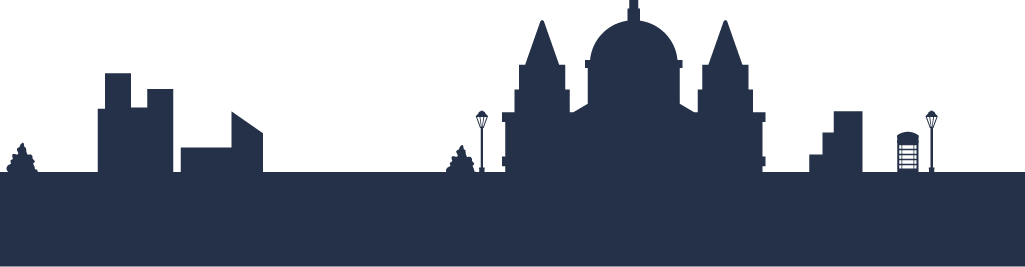
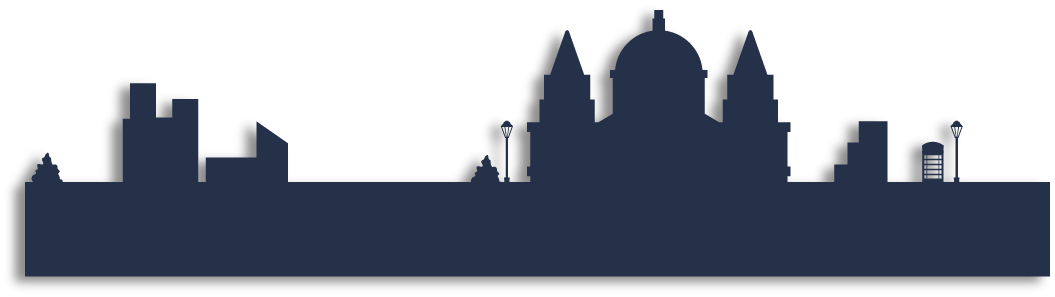
Add motion

Changed region(s): [[0.0, 0.0, 1.0, 1.0], [0.6556, 0.0899, 0.7493, 0.4195]]

diff --git a/imagen.c b/imagen.c
@@ -34,6 +34,25 @@ cairo_surface_t *bridge_base_left;
 cairo_surface_t *wave_3;
 cairo_surface_t *wave_4;
 
+gint x_cloud1;
+gint x_cloud2;
+gint x_cloud3;
+gint x_cloud4;
+gint x_cloud5;
+
+gint x_car_right;
+gint x_car_left;
+gint x_airplane;
+gint x_boat;
+gint x_bus_right;
+gint x_bus_left;
+
+gint x_wave_1;
+gint x_wave_2;
+gint x_wave_3;
+gint x_wave_4;
+
+
 static void draw_function (GtkDrawingArea *area, cairo_t *cr, int width, int height, gpointer user_data) {
    
    // ========== Background 1024 px - 575 px ==========
@@ -43,75 +62,135 @@ static void draw_function (GtkDrawingArea *area, cairo_t *cr, int width, int hei
 
    // ========== Sky (x, y) ==========
    sun = cairo_image_surface_create_from_png("Sun.png");
-   cairo_set_source_surface(cr,sun,900,10);
+   cairo_set_source_surface(cr,sun,900,5);
    cairo_paint(cr);  
 
+   if(x_cloud1<1050){
+      x_cloud1 += 1;
+   } else {
+      x_cloud1 = -200;
+   }
    cloud1 = cairo_image_surface_create_from_png("Cloud-1.png");
-   cairo_set_source_surface(cr,cloud1,10,60);
+   cairo_set_source_surface(cr,cloud1,0+x_cloud1,90);
    cairo_paint(cr);    
 
+   if(x_cloud2<1050){
+      x_cloud2 += 1;
+   } else {
+      x_cloud2 = -200;
+   }   
    cloud2 = cairo_image_surface_create_from_png("Cloud-2.png");
-   cairo_set_source_surface(cr,cloud2,800,10);
-   cairo_paint(cr);    
+   cairo_set_source_surface(cr,cloud2,0+x_cloud2,10);
+   cairo_paint(cr);      
 
-   airplane = cairo_image_surface_create_from_png("Airplane.png");
-   cairo_set_source_surface(cr,airplane,350,50);
-   cairo_paint(cr);     
-
+   if(x_cloud3<1050){
+      x_cloud3 += 1;
+   } else {
+      x_cloud3 = -200;
+   }   
    cloud3 = cairo_image_surface_create_from_png("Cloud-3.png");
-   cairo_set_source_surface(cr,cloud3,280,70);
-   cairo_paint(cr);    
+   cairo_set_source_surface(cr,cloud3,0+x_cloud3,20);
+   cairo_paint(cr); 
 
+   if(x_airplane > -100){
+      x_airplane -= 2;
+   } else {
+      x_airplane = 1030;
+   }
+   airplane = cairo_image_surface_create_from_png("Airplane.png");
+   cairo_set_source_surface(cr,airplane,0+x_airplane,55);
+   cairo_paint(cr);      
+
+   if(x_cloud4<1050){
+      x_cloud4 += 1;
+   } else {
+      x_cloud4 = -200;
+   }   
    cloud4 = cairo_image_surface_create_from_png("Cloud-4.png");
-   cairo_set_source_surface(cr,cloud4,450,40);
+   cairo_set_source_surface(cr,cloud4,0+x_cloud4,75);
    cairo_paint(cr);       
 
+   if(x_cloud5<1050){
+      x_cloud5 += 1;
+   } else {
+      x_cloud5 = -200;
+   }
    cloud5 = cairo_image_surface_create_from_png("Cloud-5.png");
-   cairo_set_source_surface(cr,cloud5,670,80);
+   cairo_set_source_surface(cr,cloud5,0+x_cloud5,65);
    cairo_paint(cr);     
 
    // ========== buildings background ==========
    wheel = cairo_image_surface_create_from_png("Wheel.png");
-   cairo_set_source_surface(cr,wheel,40,150);
+   cairo_set_source_surface(cr,wheel,41,123);
    cairo_paint(cr);     
 
    wheel_base = cairo_image_surface_create_from_png("Wheel-base.png");
-   cairo_set_source_surface(cr,wheel_base,-25,250);
+   cairo_set_source_surface(cr,wheel_base,-25,220);
    cairo_paint(cr);    
 
    capa2 = cairo_image_surface_create_from_png("Capa-2.png");
-   cairo_set_source_surface(cr,capa2,-25,100);
+   cairo_set_source_surface(cr,capa2,-25,60);
    cairo_paint(cr);  
 
    capa3 = cairo_image_surface_create_from_png("Capa-3.png");
-   cairo_set_source_surface(cr,capa3,0,290);
+   cairo_set_source_surface(cr,capa3,-25,245);
    cairo_paint(cr);    
 
-   // -------- Wave Back --------
+   if(x_wave_1 < 300){
+      x_wave_1 += 1;
+   } else {
+      x_wave_1 = -500;
+   }  
    wave_1 = cairo_image_surface_create_from_png("Wave-1.png");
-   cairo_set_source_surface(cr,wave_1,-25,515);
+   cairo_set_source_surface(cr,wave_1,-500+x_wave_1,500);
    cairo_paint(cr);   
 
+   if(x_wave_2 < 300){
+      x_wave_2 += 1;
+   } else {
+      x_wave_2 = -500;
+   }  
    wave_2 = cairo_image_surface_create_from_png("Wave-2.png");
-   cairo_set_source_surface(cr,wave_2,-25,530);
+   cairo_set_source_surface(cr,wave_2,-500+x_wave_2,520);
    cairo_paint(cr); 
 
    // -------- Cars Section --------
+   if(x_car_left > -100){
+      x_car_left -= 10;
+   } else {
+      x_car_left = 1100;
+   }  
    car_left = cairo_image_surface_create_from_png("Car-left.png");
-   cairo_set_source_surface(cr,car_left,150,435);
+   cairo_set_source_surface(cr,car_left,0+x_car_left,435);
    cairo_paint(cr); 
 
-   car_right = cairo_image_surface_create_from_png("Car-right.png");
-   cairo_set_source_surface(cr,car_right,50,435);
-   cairo_paint(cr);    
-
-   bus_right = cairo_image_surface_create_from_png("Bus-right.png");
-   cairo_set_source_surface(cr,bus_right,0,395);
-   cairo_paint(cr);    
-
+   if(x_bus_left > -100){
+      x_bus_left -= 10;
+   } else {
+      x_bus_left = 1300;
+   }  
    bus_left = cairo_image_surface_create_from_png("Bus-left.png");
-   cairo_set_source_surface(cr,bus_left,900,395);
+   cairo_set_source_surface(cr,bus_left,0+x_bus_left,395);
    cairo_paint(cr);    
+
+   if(x_car_right < 1100){
+      x_car_right += 10;
+   } else {
+      x_car_right = -300;
+   }  
+   car_right = cairo_image_surface_create_from_png("Car-right.png");
+   cairo_set_source_surface(cr,car_right,0+x_car_right,435);
+   cairo_paint(cr);    
+
+   if(x_bus_right < 1100){
+      x_bus_right += 10;
+   } else {
+      x_bus_right = -300;
+   }  
+   bus_right = cairo_image_surface_create_from_png("Bus-right.png");
+   cairo_set_source_surface(cr,bus_right,0+x_bus_right,395);
+   cairo_paint(cr);    
+
 
 // ========== Buildings Bridge ==========
 
@@ -124,8 +203,9 @@ static void draw_function (GtkDrawingArea *area, cairo_t *cr, int width, int hei
    cairo_paint(cr); 
 
    // -------- Boat Section --------
+   x_boat -= 4;
    boat = cairo_image_surface_create_from_png("Boat-1.png");
-   cairo_set_source_surface(cr,boat,600,400);
+   cairo_set_source_surface(cr,boat,600+x_boat,400);
    cairo_paint(cr); 
 
    bridge_right = cairo_image_surface_create_from_png("Bridge-right.png");
@@ -137,37 +217,83 @@ static void draw_function (GtkDrawingArea *area, cairo_t *cr, int width, int hei
    cairo_paint(cr); 
 
    // -------- Wave front --------
+   if(x_wave_3 < 300){
+      x_wave_3 += 1;
+   } else {
+      x_wave_3 = -500;
+   }  
    wave_3 = cairo_image_surface_create_from_png("Wave-3.png");
-   cairo_set_source_surface(cr,wave_3,-25,545);
+   cairo_set_source_surface(cr,wave_3,-500+x_wave_3,540);
    cairo_paint(cr);   
 
+   if(x_wave_4 < 300){
+      x_wave_4 += 1;
+   } else {
+      x_wave_4 = -520;
+   }  
    wave_4 = cairo_image_surface_create_from_png("Wave-4.png");
-   cairo_set_source_surface(cr,wave_4,-25,560);
+   cairo_set_source_surface(cr,wave_4,-520+x_wave_4,560);
    cairo_paint(cr);   
 
 }
+
+gboolean time_handler(GtkWidget* widget) {
+	gtk_widget_queue_draw(widget);
+
+	return TRUE;
+}
+
  
 static void app_activate (GApplication *app, gpointer user_data) {
-   GtkWidget *win = gtk_application_window_new (GTK_APPLICATION (app));
-   GtkWidget *area = gtk_drawing_area_new ();
+	GtkWidget *ventana = gtk_application_window_new (GTK_APPLICATION (app));
+	GtkWidget *dibujo = gtk_drawing_area_new ();
+	
+	gtk_window_set_title (GTK_WINDOW (ventana), "Dibujo");
+	gtk_drawing_area_set_draw_func (GTK_DRAWING_AREA (dibujo), draw_function, NULL, NULL);
+	gtk_window_set_child (GTK_WINDOW (ventana), dibujo);
+   gtk_window_set_default_size(GTK_WINDOW (ventana),1025,600);
+   	
+	gtk_widget_set_hexpand(dibujo,true);
+	gtk_widget_set_vexpand(dibujo,true);
+	
+	g_timeout_add(100, (GSourceFunc) time_handler, (gpointer) dibujo);
+	gtk_widget_show(ventana);
  
-   gtk_window_set_title (GTK_WINDOW (win), "Dibujo");
-   gtk_drawing_area_set_draw_func (GTK_DRAWING_AREA (area), draw_function, NULL, NULL);
-   gtk_window_set_child (GTK_WINDOW (win), area);
- 
-   gtk_widget_show (win);
+}
+static void app_open (GApplication *app, GFile **files, gint n_files, gchar *hint, gpointer user_data) {
+	app_activate(app,user_data);
 }
  
-#define APPLICATION_ID "com.github.ToshioCP.da1"
+#define APPLICATION_ID "info.lfac.puente"
  
 int main (int argc, char **argv) {
    GtkApplication *app;
    int stat;
+
+   x_cloud1 = -40;
+   x_cloud2 = 950;
+   x_airplane = 1030;
+   x_cloud3 = 250;
+   x_cloud4 = 450;
+   x_cloud5 = 770;
+
+
+   x_car_right = -800;
+   x_bus_right = -200;
+   x_car_left = 1100;
+   x_bus_left = 1400;
+   x_boat = 1100;
+   x_wave_1 = 0;
+   x_wave_2 = 0;
+   x_wave_3 = 0;
+   x_wave_4 = 0;
+
  
-   app = gtk_application_new (APPLICATION_ID, G_APPLICATION_FLAGS_NONE);
-   g_signal_connect (app, "activate", G_CALLBACK (app_activate), NULL);
-   stat =g_application_run (G_APPLICATION (app), argc, argv);
-   g_object_unref (app);
+	app = gtk_application_new (APPLICATION_ID, G_APPLICATION_HANDLES_OPEN);
+	g_signal_connect (app, "activate", G_CALLBACK (app_activate), NULL);
+	g_signal_connect (app, "open", G_CALLBACK (app_open), NULL);
+	stat = g_application_run (G_APPLICATION (app), argc, argv);
+	g_object_unref (app);
 
    // Destroy Section
    cairo_surface_destroy(background);
